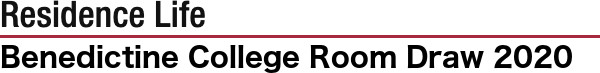
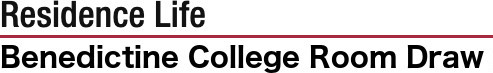
Fixed white spaces on homepage, changed divider image so that it won't overlap text, and change resLifeBanner so that it didn't include the year

Changed region(s): [[0.0, 0.6027, 1.0, 1.0], [0.0, 0.0, 0.426, 0.3836]]

diff --git a/site/RoomDraw/src/app/home/home.component.css b/site/RoomDraw/src/app/home/home.component.css
@@ -15,10 +15,10 @@ body {
 }
 
 #bannerImage {
-	height: 100%;
 	width: 100%;
+	height: 100%;
 	text-align: center;
-	margin: 0px;
+	margin-bottom: -6px;
 }
 
 #bannerImage img {
@@ -30,6 +30,7 @@ body {
 	position: absolute;
 	left: 30px;
 	top: 20px;
+	width: 260px;
 }
 
 /* Create three equal columns that floats next to each other */
@@ -37,7 +38,7 @@ body {
 	float: left;
 	width: 50%;
 	padding: 10px;
-	padding-left: 25px;
+	padding-left: 28px;
 	height: 400px; /* Should be removed. Only for demonstration */
 	background-color: #fff;
 }
@@ -56,6 +57,7 @@ body {
 	top: 70%;
 	left: 49.9%;
 	transform: translate(-50%, -50%);
+	z-index: 0;
 }
 
 #footer {
@@ -68,8 +70,6 @@ body {
 	text-transform: uppercase;
 	font-family: "Trebuchet MS", Helvetica, sans-serif;
 	width: 100%;
-	margin-top: 5px;
-
 }
 
 .headerColumn {

diff --git a/site/RoomDraw/src/app/home/home.component.html b/site/RoomDraw/src/app/home/home.component.html
@@ -2,7 +2,7 @@
 	<div id="header"> <!--Header-->
 		<div class="headerRow">
 			<div class="headerColumn">
-				<img src="assets/bcLogo.jpg" class="bcLogo" alt="Benedictine College" style="width:260px">
+				<img src="assets/bcLogo.jpg" class="bcLogo" alt="Benedictine College">
 			</div>
 			<div class="headerColumn">
 				<img src="assets/resLifeBanner.jpg" class="resLifeBanner" alt="Room Draw 2020">
@@ -26,7 +26,6 @@
 			<h3>Student: {{myInfo.first_name}} {{myInfo.last_name}}</h3>
 			<h3>Your Random Number: {{myInfo.random_number}}</h3>
 			<!--<h3>Groups Ahead of You: {{rank}}</h3>-->
-			<app-group></app-group>
 		</div>
 		<!--Room Draw Status Update includes Progress Bar NEEDS TO BE LINKED TO DB includes Checklist NEEDS TO BE LINKED TO DB-->
 		<div id="columnWishlists" class="column"><h2>Room Draw Status</h2>

diff --git a/site/RoomDraw/src/app/nav-bar/nav-bar.component.css b/site/RoomDraw/src/app/nav-bar/nav-bar.component.css
@@ -11,7 +11,10 @@
 	display: block;
 	color: #f2f2f2;
 	text-align: center;
-	padding: 1%;
+	padding-top: 1%;
+	padding-left: 1%;
+	padding-right: 1%;
+	padding-bottom: 0.7%;
 	text-decoration: none;
 }
 
